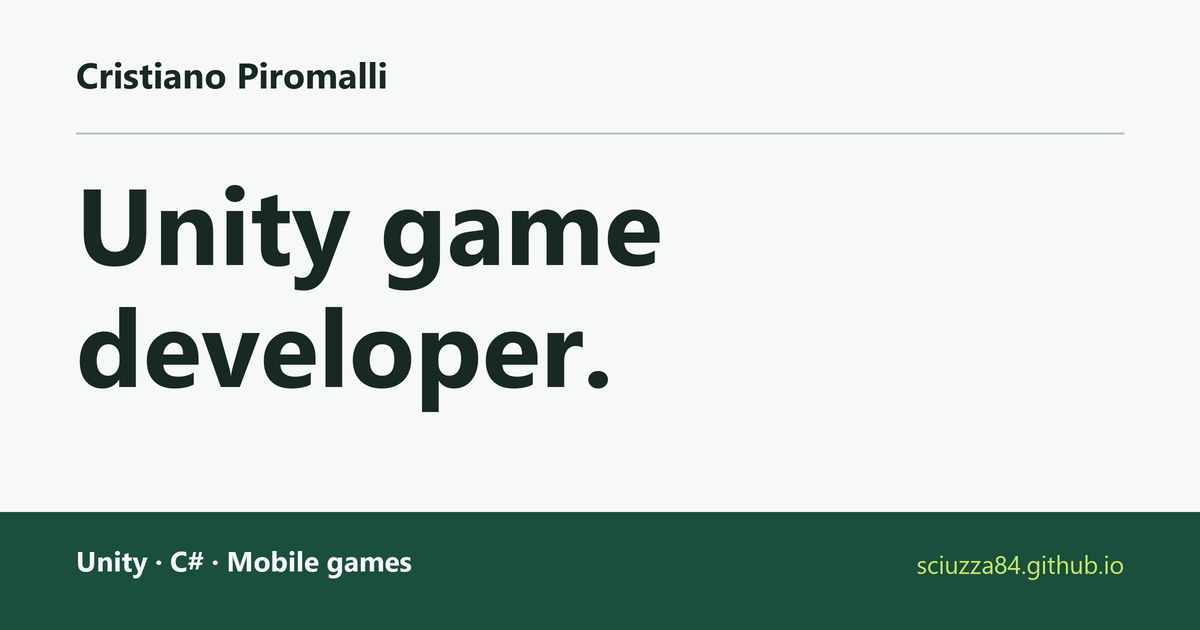
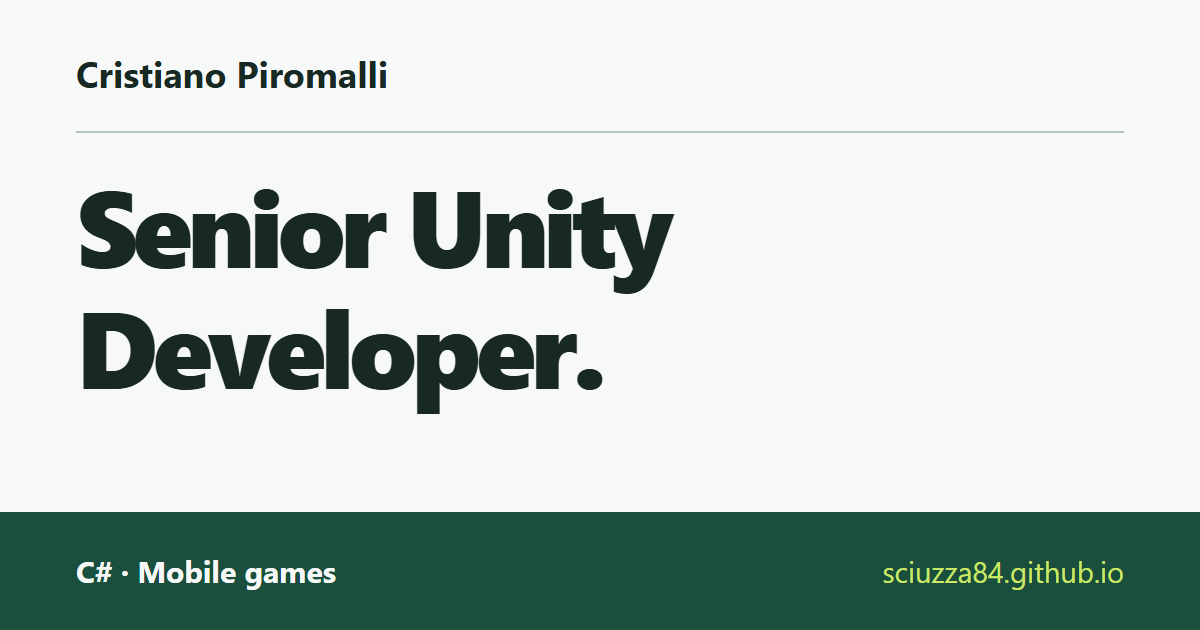
docs: align the portfolio preview with the Senior Unity title

diff --git a/index.html b/index.html
@@ -16,12 +16,12 @@
   <meta property="og:image:type" content="image/png">
   <meta property="og:image:width" content="1200">
   <meta property="og:image:height" content="630">
-  <meta property="og:image:alt" content="Cristiano Piromalli. Unity game developer. Unity, C#, and mobile games.">
+  <meta property="og:image:alt" content="Cristiano Piromalli. Senior Unity Developer. C# and mobile games.">
   <meta name="twitter:card" content="summary_large_image">
   <meta name="twitter:title" content="Cristiano Piromalli · Senior Unity Developer">
   <meta name="twitter:description" content="Based in Italy · Fully remote. Selected Unity and C# work in mobile games, gameplay, editor tools, and content delivery.">
   <meta name="twitter:image" content="https://sciuzza84.github.io/portfolio-preview.png">
-  <meta name="twitter:image:alt" content="Cristiano Piromalli. Unity game developer. Unity, C#, and mobile games.">
+  <meta name="twitter:image:alt" content="Cristiano Piromalli. Senior Unity Developer. C# and mobile games.">
   <link rel="stylesheet" href="styles.css">
 </head>
 <body>
@@ -147,7 +147,7 @@
         <div class="case-copy">
           <p class="role">I wrote the game's Unity code. Other contributors handled artwork and game design.</p>
           <h5>From layered artwork to playable levels</h5>
-          <p>The artist placed each object against the background in a layered Photoshop file. I built a Unity Editor tool that used naming conventions to turn the imported artwork into a level prefab and its data in one command, preserving the artist's layout.</p>
+          <p>The artist placed each object against the background in layered artwork. I built a Unity Editor tool that used naming conventions to turn the imported layers into a level prefab and its data in one command, preserving the artist's layout.</p>
           <h5>Generating varied rounds from a finite catalog</h5>
           <p>I built a round generator that favors less-used objects and variants, keeps each target group free of duplicates, and selects distractors separately. It saves the resulting configuration so the game can load the same round again.</p>
           <nav class="proof-links" aria-label="Diana engineering sample">

diff --git a/styles.css b/styles.css
@@ -69,7 +69,7 @@ main:focus { outline: none; }
 h2 { font-size: clamp(1.8rem, 4vw, 2.4rem); letter-spacing: -.04em; line-height: 1.2; }
 .section-heading { display: flex; justify-content: space-between; align-items: baseline; flex-wrap: wrap; gap: .6rem 2rem; }
 .section-heading > p { color: var(--muted); max-width: 42ch; }
-.case-index { display: grid; grid-template-columns: repeat(auto-fit, minmax(min(100%, 13rem), 1fr)); gap: .75rem; margin-block: 1.5rem 0; }
+.case-index { display: grid; grid-template-columns: repeat(4, minmax(0, 1fr)); gap: .75rem; margin-block: 1.5rem 0; }
 .case-index a { display: flex; flex-direction: column; gap: .65rem; min-height: 8rem; padding: 1rem; border: 1px solid var(--line); text-decoration: none; }
 .case-index a:hover { background: #e8f0eb; border-color: var(--accent); }
 .case-index strong { font-size: 1.15rem; line-height: 1.3; }
@@ -109,6 +109,10 @@ h2 { font-size: clamp(1.8rem, 4vw, 2.4rem); letter-spacing: -.04em; line-height:
 .teaching-copy h3 { margin-bottom: .5rem; font-size: 1.25rem; }
 .footer { border-bottom: 0; border-top: 1px solid var(--line); padding-block: 1.4rem 2rem; }
 .footer a { display: inline-block; padding-block: .35rem; }
+
+@media (max-width: 940px) {
+  .case-index { grid-template-columns: repeat(2, minmax(0, 1fr)); }
+}
 
 @media (max-width: 680px) {
   .wrap { width: calc(100% - 2rem); }
